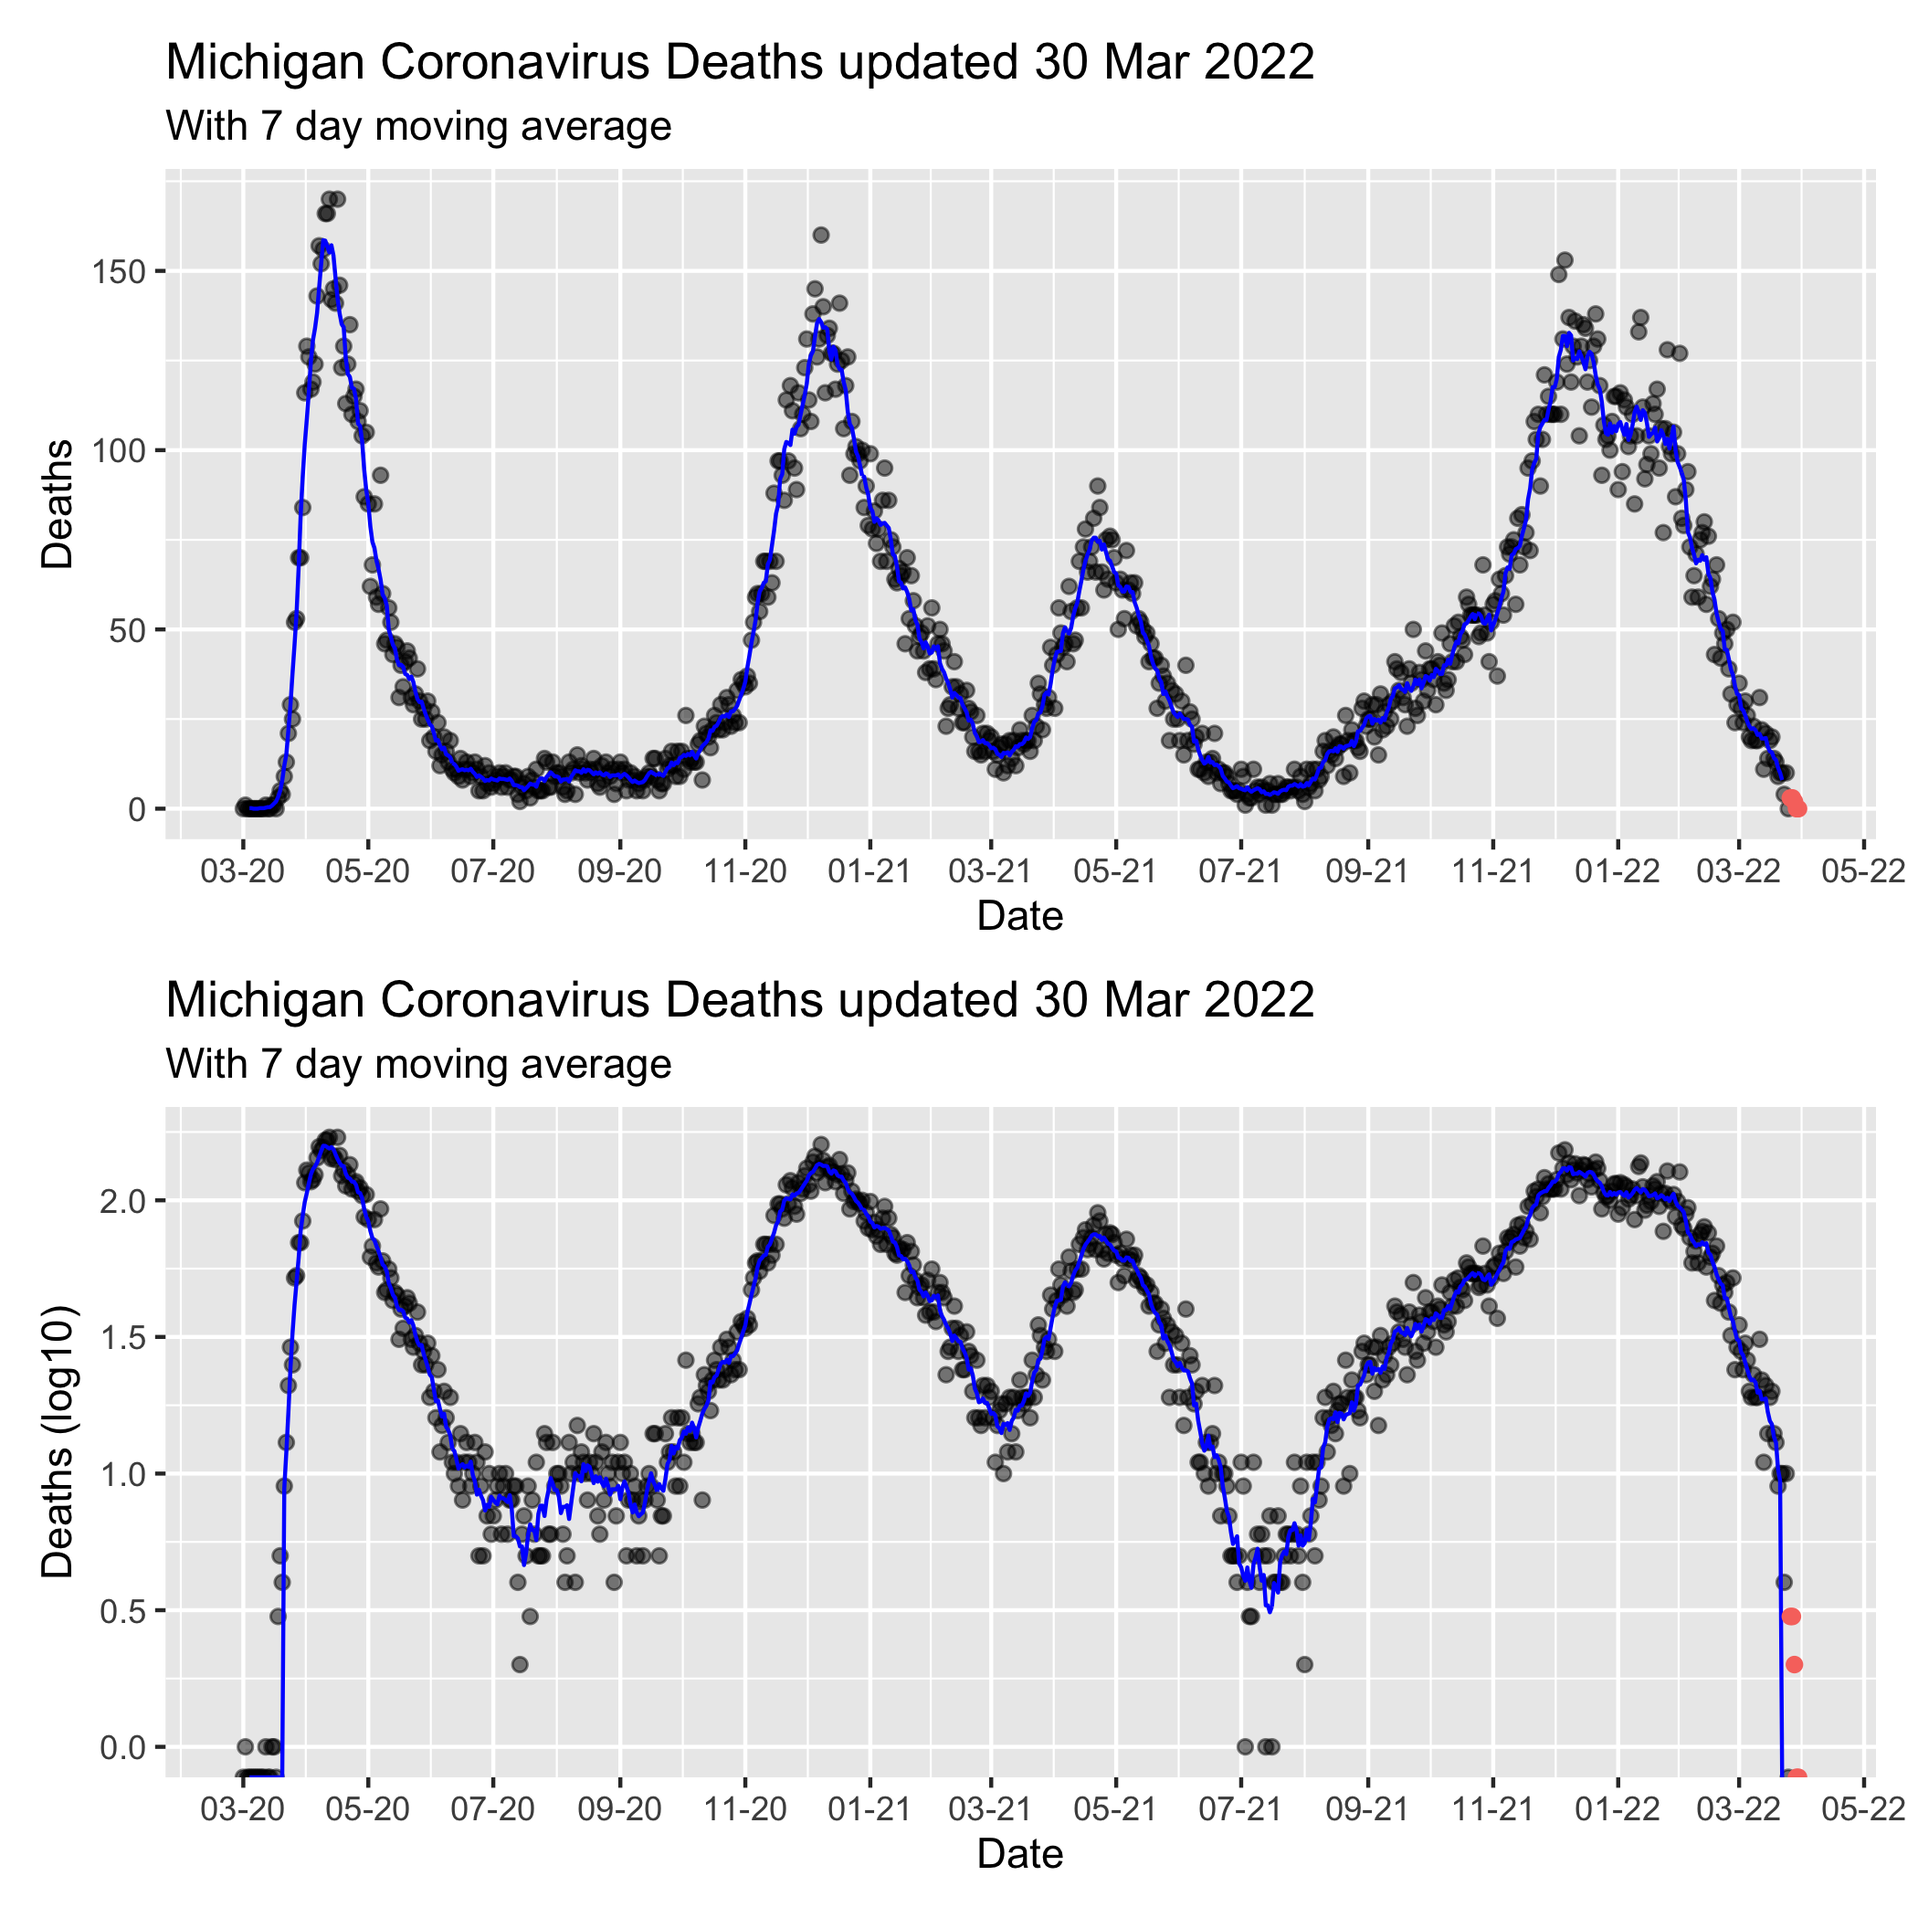
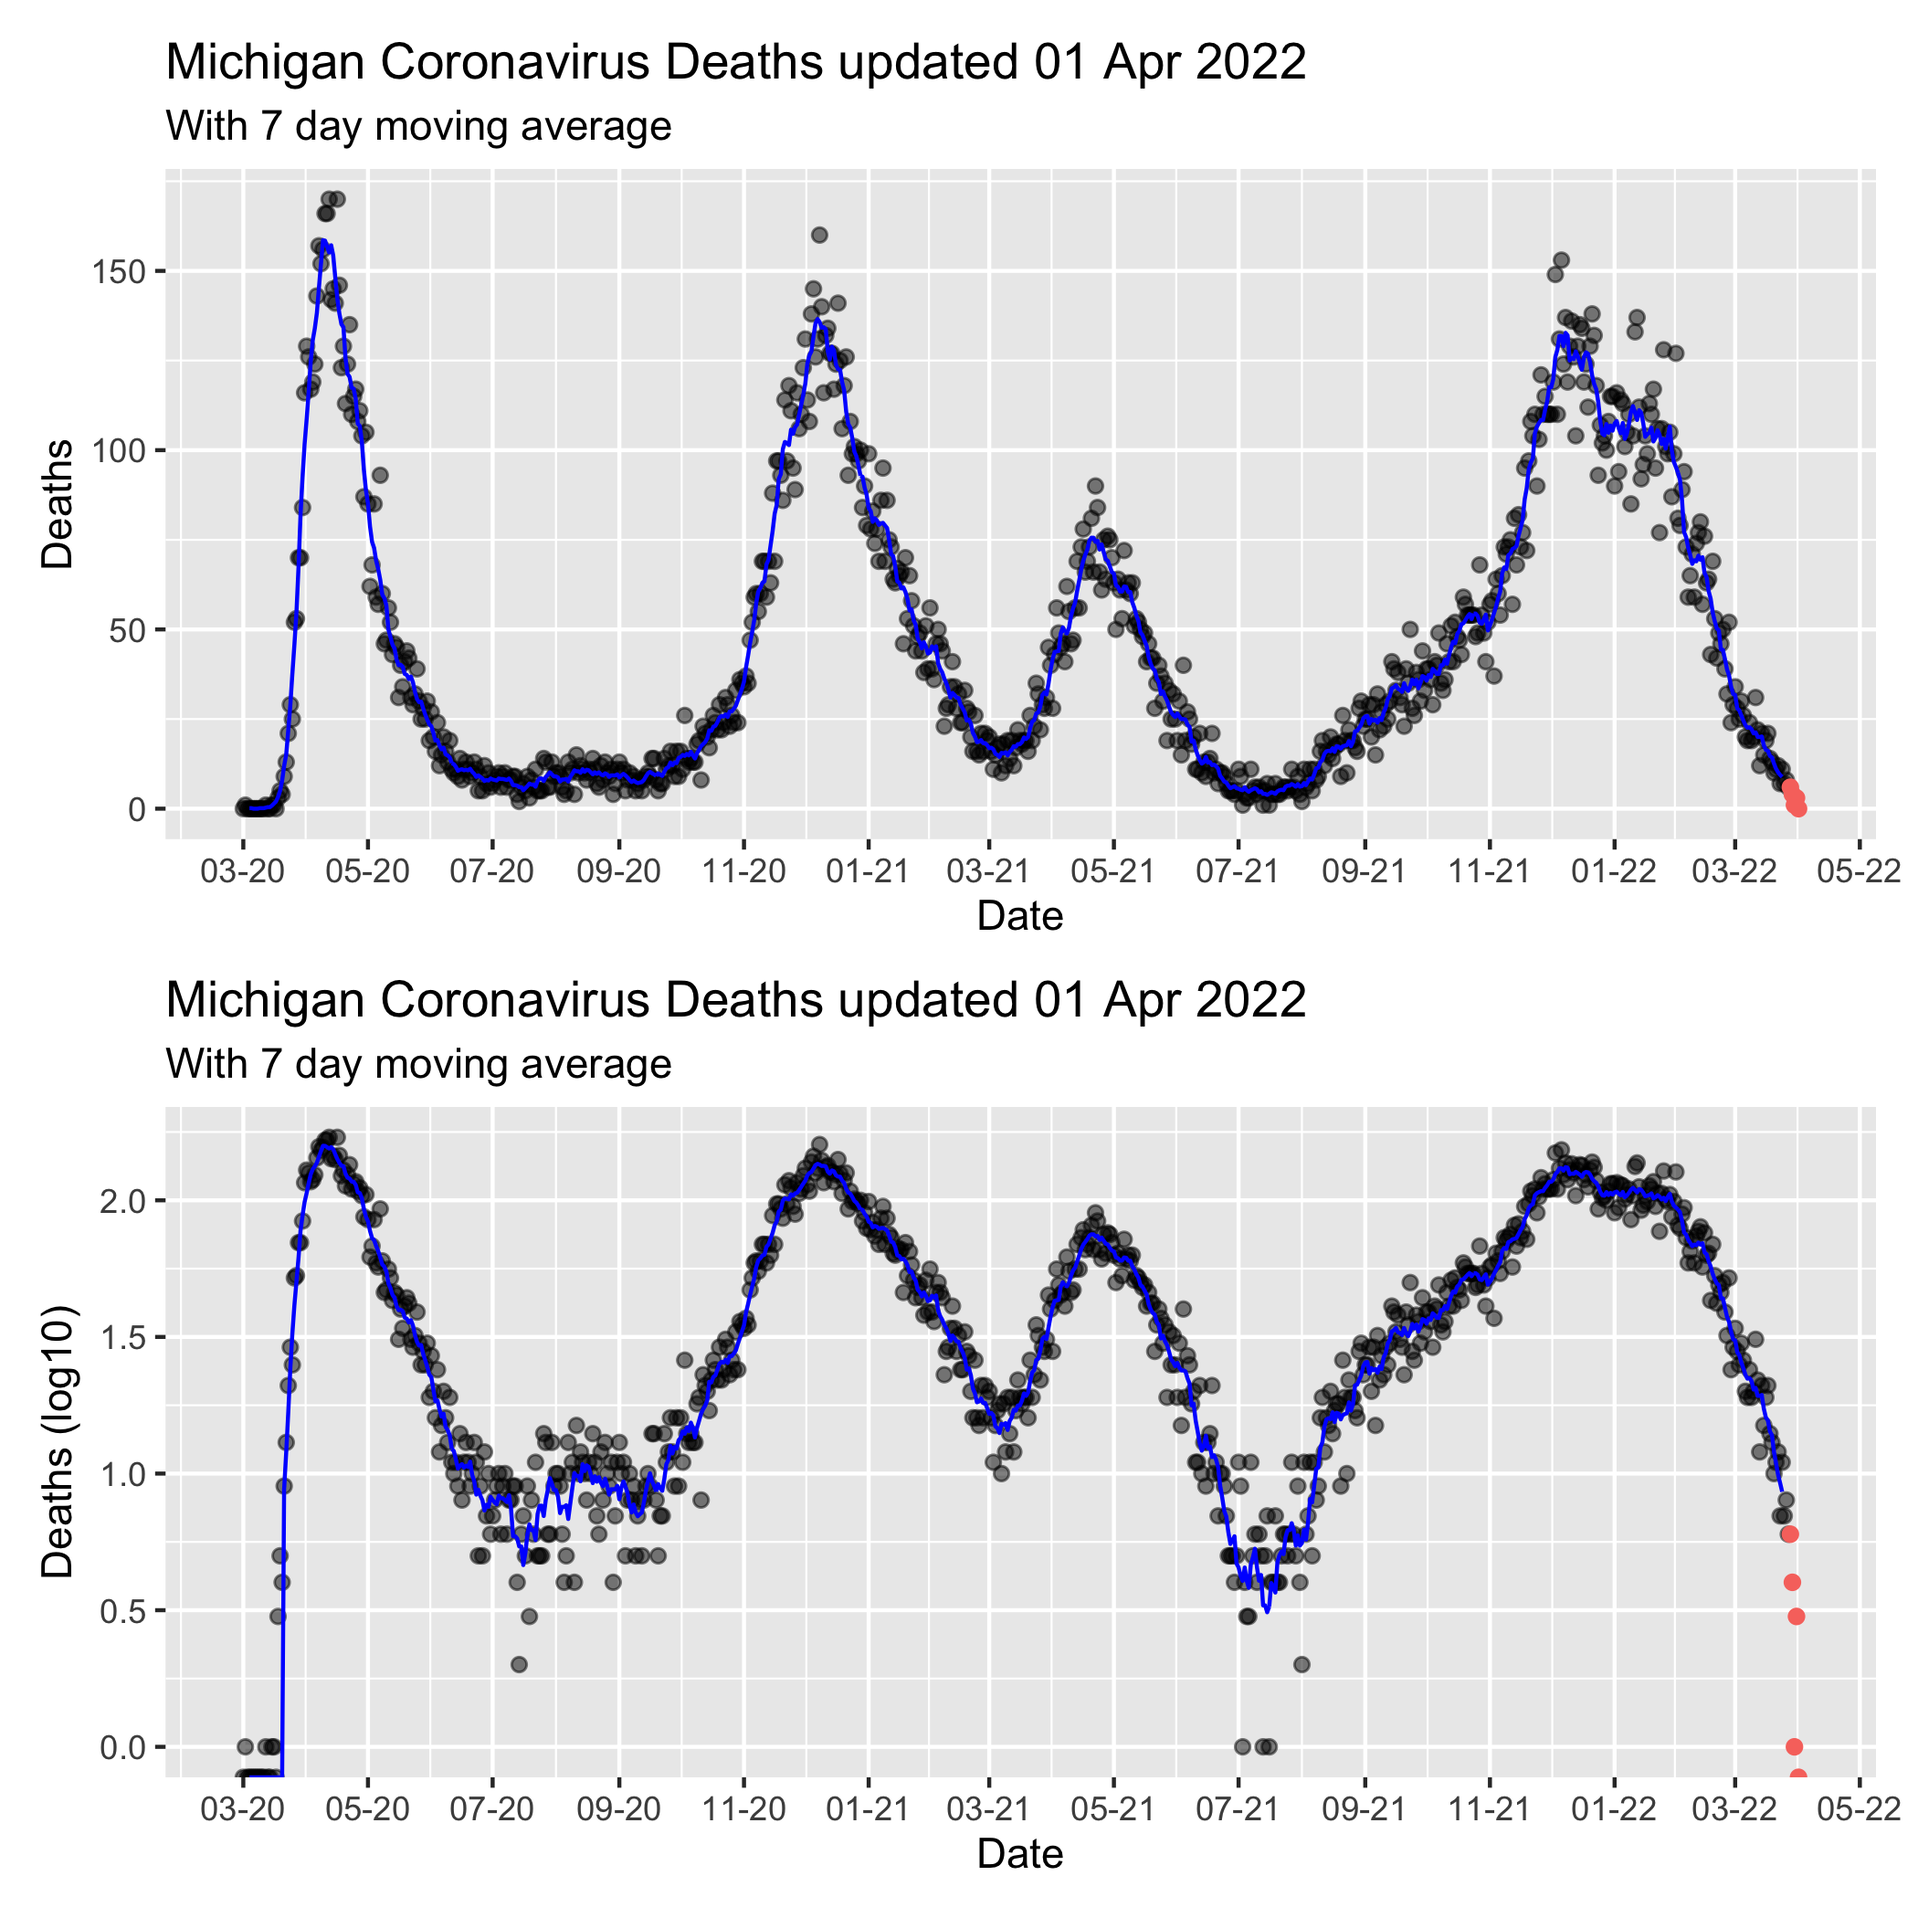
Apr-03 2022 11:53 update

diff --git a/MiCorona.md b/MiCorona.md
@@ -1,7 +1,7 @@
 Michigan COVID Data
 ================
 Adam D. DenHaan
-Apr 01, 2022
+Apr 03, 2022
 
 Get link for data:
 
@@ -49,11 +49,11 @@ mi_data.head()
     ## 4  Alcona 2020-03-05   Confirmed    0.0     0.0               0.0   
     ## 
     ##    Deaths.Cumulative                       Updated  
-    ## 0                0.0 2022-03-30 13:29:17.349999872  
-    ## 1                0.0 2022-03-30 13:29:17.349999872  
-    ## 2                0.0 2022-03-30 13:29:17.349999872  
-    ## 3                0.0 2022-03-30 13:29:17.349999872  
-    ## 4                0.0 2022-03-30 13:29:17.349999872
+    ## 0                0.0 2022-04-01 12:47:54.260999936  
+    ## 1                0.0 2022-04-01 12:47:54.260999936  
+    ## 2                0.0 2022-04-01 12:47:54.260999936  
+    ## 3                0.0 2022-04-01 12:47:54.260999936  
+    ## 4                0.0 2022-04-01 12:47:54.260999936
 
 ``` python
 max_date = max(mi_data["Updated"])
